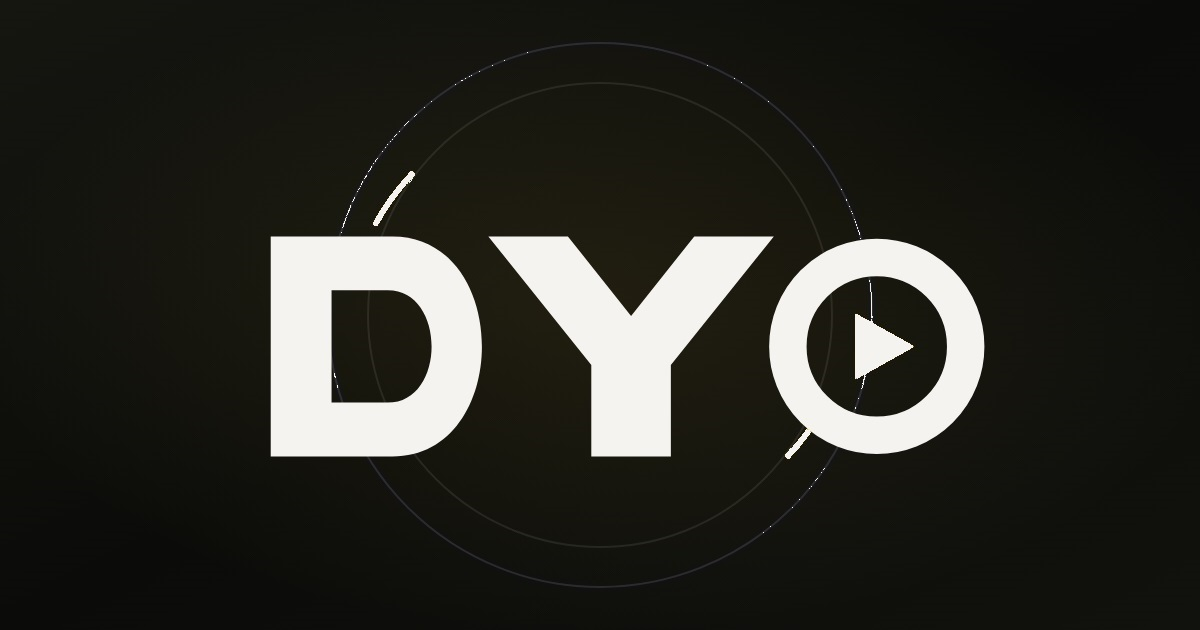
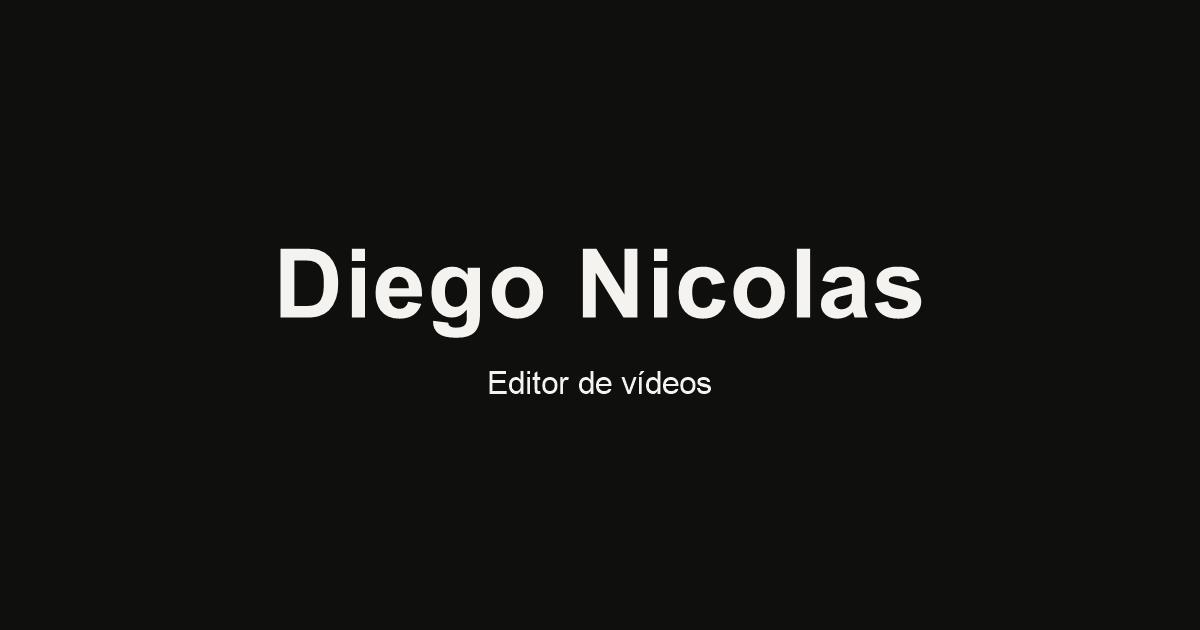
Atualiza identidade do portfolio para Diego Nicolas

Changed region(s): [[0.2158, 0.2714, 0.8325, 0.7238]]

diff --git a/index.html b/index.html
@@ -1,8 +1,8 @@
 <!DOCTYPE html>
 <!--
   =========================================================
-  Site: DYO Studio — Edição de Vídeos
-  Feito por: DYO
+  Site: Diego Nicolas — Edição de Vídeos
+  Feito por: Diego
   Ano: 2026
 
   Esse arquivo é a ESTRUTURA do site.
@@ -16,7 +16,7 @@
     Idiomas (PT/EN) ........... js/i18n.js
 
   Destaques de texto:
-    <span class="accent">palavra</span>  → destaque claro da identidade DYO
+    <span class="accent">palavra</span>  → destaque claro da identidade Diego
     <span class="marker">palavra</span>  → marca-texto claro
 
   Regra básica: só mexa no texto ENTRE as tags.
@@ -36,13 +36,13 @@
   <meta name="robots" content="index, follow" />
 
   <!-- Quando o link é compartilhado no WhatsApp, Discord, etc -->
-  <meta property="og:title" content="DYO Studio | Edição de vídeo" />
+  <meta property="og:title" content="Diego Nicolas | Edição de vídeo" />
   <meta property="og:description" content="Edição de vídeos para YouTube, TikTok, Shorts e Reels. Veja meu trabalho e fale comigo." />
   <meta property="og:type" content="website" />
   <meta property="og:url" content="https://digas221960-wq.github.io/dyooo/" />
-  <meta property="og:site_name" content="DYO Studio" />
-  <meta property="og:image" content="https://digas221960-wq.github.io/dyooo/img/social/og-image.jpg?v=8" />
-  <meta property="og:image:alt" content="Logo do DYO Studio, editor de vídeos para YouTube, TikTok, Shorts e Reels" />
+  <meta property="og:site_name" content="Diego Nicolas" />
+  <meta property="og:image" content="https://digas221960-wq.github.io/dyooo/img/social/og-image.jpg?v=9" />
+  <meta property="og:image:alt" content="Diego Nicolas, editor de vídeos para YouTube, TikTok, Shorts e Reels" />
   <meta property="og:image:type" content="image/jpeg" />
   <meta property="og:image:width" content="1200" />
   <meta property="og:image:height" content="630" />
@@ -50,11 +50,11 @@
 
   <!-- Card do Twitter/X -->
   <meta name="twitter:card" content="summary_large_image" />
-  <meta name="twitter:title" content="DYO Studio | Edição de vídeo" />
+  <meta name="twitter:title" content="Diego Nicolas | Edição de vídeo" />
   <meta name="twitter:description" content="Edição de vídeos para YouTube, TikTok, Shorts e Reels. Veja meu trabalho." />
-  <meta name="twitter:image" content="https://digas221960-wq.github.io/dyooo/img/social/og-image.jpg?v=8" />
+  <meta name="twitter:image" content="https://digas221960-wq.github.io/dyooo/img/social/og-image.jpg?v=9" />
 
-  <title>DYO Studio | Edição de vídeo</title>
+  <title>Diego Nicolas | Edição de vídeo</title>
 
   <!-- Avisa o CSS que o JavaScript está ativo (pras animações de entrada) -->
   <script>document.documentElement.classList.remove("no-js");</script>
@@ -88,10 +88,10 @@
 <header class="site-header" id="site-header">
   <div class="container header-inner">
 
-    <!-- Marca DYO -->
-    <a href="#top" class="brand" aria-label="DYO Studio, início" data-i18n-aria-label="brand.home">
+    <!-- Marca Diego -->
+    <a href="#top" class="brand" aria-label="Diego Nicolas, início" data-i18n-aria-label="brand.home">
       <img class="brand-mark" src="img/brand/dyo-studio-icon.svg?v=2" alt="" width="34" height="34" />
-      <span class="brand-name">DYO Studio</span>
+      <span class="brand-name">Diego Nicolas</span>
     </a>
 
     <!-- Menu (no computador fica em linha; no celular abre pelo botão) -->
@@ -144,7 +144,7 @@
   <section class="hero theme-dark" id="top" aria-labelledby="hero-title">
     <div class="container hero-inner">
       <div class="hero-content">
-        <h1 id="hero-title" class="hero-title reveal"><span class="accent">DYO</span></h1>
+        <h1 id="hero-title" class="hero-title reveal"><span class="accent">Diego</span></h1>
         <p class="hero-subtitle reveal" data-i18n="hero.eyebrow">Editor de vídeo e YouTuber</p>
         <p class="hero-description reveal" data-i18n="hero.subtitle">Edição com ritmo para prender a atenção logo de cara.</p>
         <div class="hero-actions reveal">
@@ -192,7 +192,7 @@
           <p class="about-kicker" data-i18n="about.profile">Experiência técnica</p>
           <h3 class="about-card-title" data-i18n="about.experience.headline">Há mais de um ano trabalhando com edição de vídeo.</h3>
           <p class="about-bio-copy" data-i18n="about.p1">
-            Meu nome é Diego, mas prefiro usar DYO no trabalho. Valorizo a relação com meus clientes e, além de editar os vídeos, também compartilho ideias para melhorar o conteúdo.
+            Meu nome é Diego Nicolas. Valorizo a relação com meus clientes e, além de editar os vídeos, também compartilho ideias para melhorar o conteúdo.
           </p>
           <div class="about-software">
             <span class="about-software-label" data-i18n="about.software">Softwares</span>
@@ -362,7 +362,7 @@
 <footer class="site-footer">
   <div class="container footer-inner">
     <div class="footer-brand reveal">
-      <img class="footer-brand-logo" src="img/brand/dyo-studio-logo.svg?v=2" alt="DYO — edição de vídeo" width="112" height="42" loading="lazy" />
+      <img class="footer-brand-logo" src="img/brand/dyo-studio-logo.svg?v=3" alt="Diego — edição de vídeo" width="112" height="42" loading="lazy" />
       <span class="footer-tagline" data-i18n="footer.tagline">Edição e pós-produção</span>
     </div>
 
@@ -374,8 +374,8 @@
     </nav>
 
     <p class="footer-copy">
-      <span>© <span id="footer-year">2026</span> DYO. <span data-i18n="footer.rights">Todos os direitos reservados.</span></span>
-      <span data-i18n="footer.credit">Feito por DYO Studio</span>
+      <span>© <span id="footer-year">2026</span> Diego Nicolas. <span data-i18n="footer.rights">Todos os direitos reservados.</span></span>
+      <span data-i18n="footer.credit">Feito por Diego Nicolas</span>
     </p>
   </div>
 </footer>

diff --git a/js/i18n.js b/js/i18n.js
@@ -1,5 +1,5 @@
 /* =========================================================
-   DYO Studio — TRADUÇÃO PT / EN
+   Diego Nicolas — TRADUÇÃO PT / EN
    ---------------------------------------------------------
    Para trocar os textos, edite as chaves abaixo.
    Cada chave tem "pt" (português) e "en" (inglês).
@@ -9,12 +9,12 @@
    ========================================================= */
 
 window.DYO_I18N = {
-  "meta.title": { pt: "DYO Studio | Edição de vídeo", en: "DYO Studio | Video editing" },
+  "meta.title": { pt: "Diego Nicolas | Edição de vídeo", en: "Diego Nicolas | Video editing" },
   "meta.description": {
     pt: "Edição de vídeos para YouTube, TikTok, Shorts e Reels. Veja meu trabalho e fale comigo.",
     en: "Video editing for YouTube, TikTok, Shorts, and Reels. Take a look at my work and get in touch."
   },
-  "brand.home":       { pt: "DYO Studio, início", en: "DYO Studio, home" },
+  "brand.home":       { pt: "Diego Nicolas, início", en: "Diego Nicolas, home" },
   "nav.about":        { pt: "Sobre",        en: "About" },
   "nav.main":         { pt: "Navegação principal", en: "Main navigation" },
   "nav.footer":       { pt: "Navegação do rodapé", en: "Footer navigation" },
@@ -37,8 +37,8 @@ window.DYO_I18N = {
   "about.experience.headline": { pt: "Há mais de um ano trabalhando com edição de vídeo.", en: "I've been editing videos for over a year." },
   "about.specialties": { pt: "Especialidades", en: "Specialties" },
   "about.p1": {
-    pt: 'Meu nome é Diego, mas prefiro usar DYO no trabalho. Valorizo a relação com meus clientes e, além de editar os vídeos, também compartilho ideias para melhorar o conteúdo.',
-    en: "I'm Diego, though I go by DYO for work. I value a good working relationship with my clients. Alongside editing their videos, I also share ideas to help improve their content."
+    pt: 'Meu nome é Diego Nicolas. Valorizo a relação com meus clientes e, além de editar os vídeos, também compartilho ideias para melhorar o conteúdo.',
+    en: "I'm Diego Nicolas. I value a good working relationship with my clients. Alongside editing their videos, I also share ideas to help improve their content."
   },
   "about.p2": {
     pt: 'Trabalho com <strong>Shorts, Reels, TikToks</strong> e vídeos longos para <strong>YouTube</strong>. Cuido da edição do primeiro corte aos efeitos finais.',
@@ -105,7 +105,7 @@ window.DYO_I18N = {
 
   "footer.tagline": { pt: "Edição e pós-produção", en: "Editing and post-production" },
   "footer.rights":  { pt: "Todos os direitos reservados.", en: "All rights reserved." },
-  "footer.credit":  { pt: "Feito por DYO Studio", en: "Made by DYO Studio" },
+  "footer.credit":  { pt: "Feito por Diego Nicolas", en: "Made by Diego Nicolas" },
 };
 
 /* =========================================================

diff --git a/css/identity.css b/css/identity.css
@@ -1,4 +1,4 @@
-/* Identidade DYO: base escura e destaques neutros. */
+/* Identidade Diego: base escura e destaques neutros. */
 body {
   position: relative;
   isolation: isolate;
@@ -392,7 +392,7 @@ a.contact-link:hover .contact-link-icon { transform: translateY(-2px); }
   body::after { animation: none; }
 }
 
-/* Composição inspirada na referência KX, preservando a identidade DYO. */
+/* Composição inspirada na referência KX, preservando a identidade Diego. */
 body {
   background-color: #000000;
   background-image: none;

diff --git a/404.html b/404.html
@@ -9,7 +9,7 @@
   <meta name="viewport" content="width=device-width, initial-scale=1.0" />
   <meta name="theme-color" content="#050505" />
   <meta name="robots" content="noindex" />
-  <title>Página não encontrada | DYO Studio</title>
+  <title>Página não encontrada | Diego Nicolas</title>
   <link rel="icon" type="image/svg+xml" href="img/brand/dyo-studio-icon.svg?v=2" />
   <link rel="preconnect" href="https://fonts.googleapis.com" />
   <link rel="preconnect" href="https://fonts.gstatic.com" crossorigin />

diff --git a/css/layout.css b/css/layout.css
@@ -1,5 +1,5 @@
 /* =========================================================
-   Dyo — LAYOUT
+   Diego — LAYOUT
    ---------------------------------------------------------
    Partes que se repetem em todo o site:
    cabeçalho, menu (computador e celular), faixa de
@@ -38,7 +38,7 @@ body.nav-open .site-header {
   -webkit-backdrop-filter: blur(16px);
 }
 
-/* Marca DYO */
+/* Marca Diego */
 .brand {
   display: inline-flex;
   align-items: center;

diff --git a/css/variables.css b/css/variables.css
@@ -7,7 +7,7 @@
 }
 
 /* =========================================================
-   Dyo — VARIÁVEIS (cores, fontes e tamanhos)
+   Diego — VARIÁVEIS (cores, fontes e tamanhos)
    ---------------------------------------------------------
    Esse é o ÚNICO arquivo que você precisa abrir pra trocar
    as cores do site. Todo o resto usa essas variáveis.

diff --git a/css/base.css b/css/base.css
@@ -1,5 +1,5 @@
 /* =========================================================
-   Dyo — BASE
+   Diego — BASE
    ---------------------------------------------------------
    Regras que valem pro site inteiro: reset, tipografia,
    botões, ícones, destaques de texto, cabeçalho das seções

diff --git a/js/content.js b/js/content.js
@@ -1,5 +1,5 @@
 /* =========================================================
-   Dyo — CONTEÚDO EDITÁVEL
+   Diego — CONTEÚDO EDITÁVEL
    Feito por: MRJGodzilla
    Ano: 2026
 

diff --git a/js/app.js b/js/app.js
@@ -1,5 +1,5 @@
 /* =========================================================
-   Dyo — LÓGICA DO SITE
+   Diego — LÓGICA DO SITE
    Feito por: MRJGodzilla
    Ano: 2026
 

diff --git a/agents.md b/agents.md
@@ -1,6 +1,6 @@
 # AGENTS.md
 
-Static one-page portfolio site for "Dyo" (video editor). Plain HTML/CSS/JS, no build step, deployed on GitHub Pages from the `main` branch. The site owner is not a programmer and edits files by hand following `LEIA-ME.txt` (Portuguese) — keep that guide in sync with any structural change.
+Static one-page portfolio site for "Diego" (video editor). Plain HTML/CSS/JS, no build step, deployed on GitHub Pages from the `main` branch. The site owner is not a programmer and edits files by hand following `LEIA-ME.txt` (Portuguese) — keep that guide in sync with any structural change.
 
 ## Structure
 

diff --git a/docs/README-tecnico.md b/docs/README-tecnico.md
@@ -1,6 +1,6 @@
 # Estrutura técnica
 
-Site estático do DYO Studio, feito em HTML, CSS e JavaScript puro. Não
+Site estático do Diego Nicolas, feito em HTML, CSS e JavaScript puro. Não
 usa framework, pacotes ou etapa de compilação. O GitHub Pages publica
 os arquivos da raiz pela branch `main`.
 

diff --git a/README.md b/README.md
@@ -1,6 +1,6 @@
-# DYO Studio
+# Diego Nicolas
 
-Portfólio do Dyo, editor de vídeos. O site é feito em HTML, CSS e
+Portfólio do Diego, editor de vídeos. O site é feito em HTML, CSS e
 JavaScript e publicado automaticamente pelo GitHub Pages.
 
 ## Quer fazer uma alteração?
